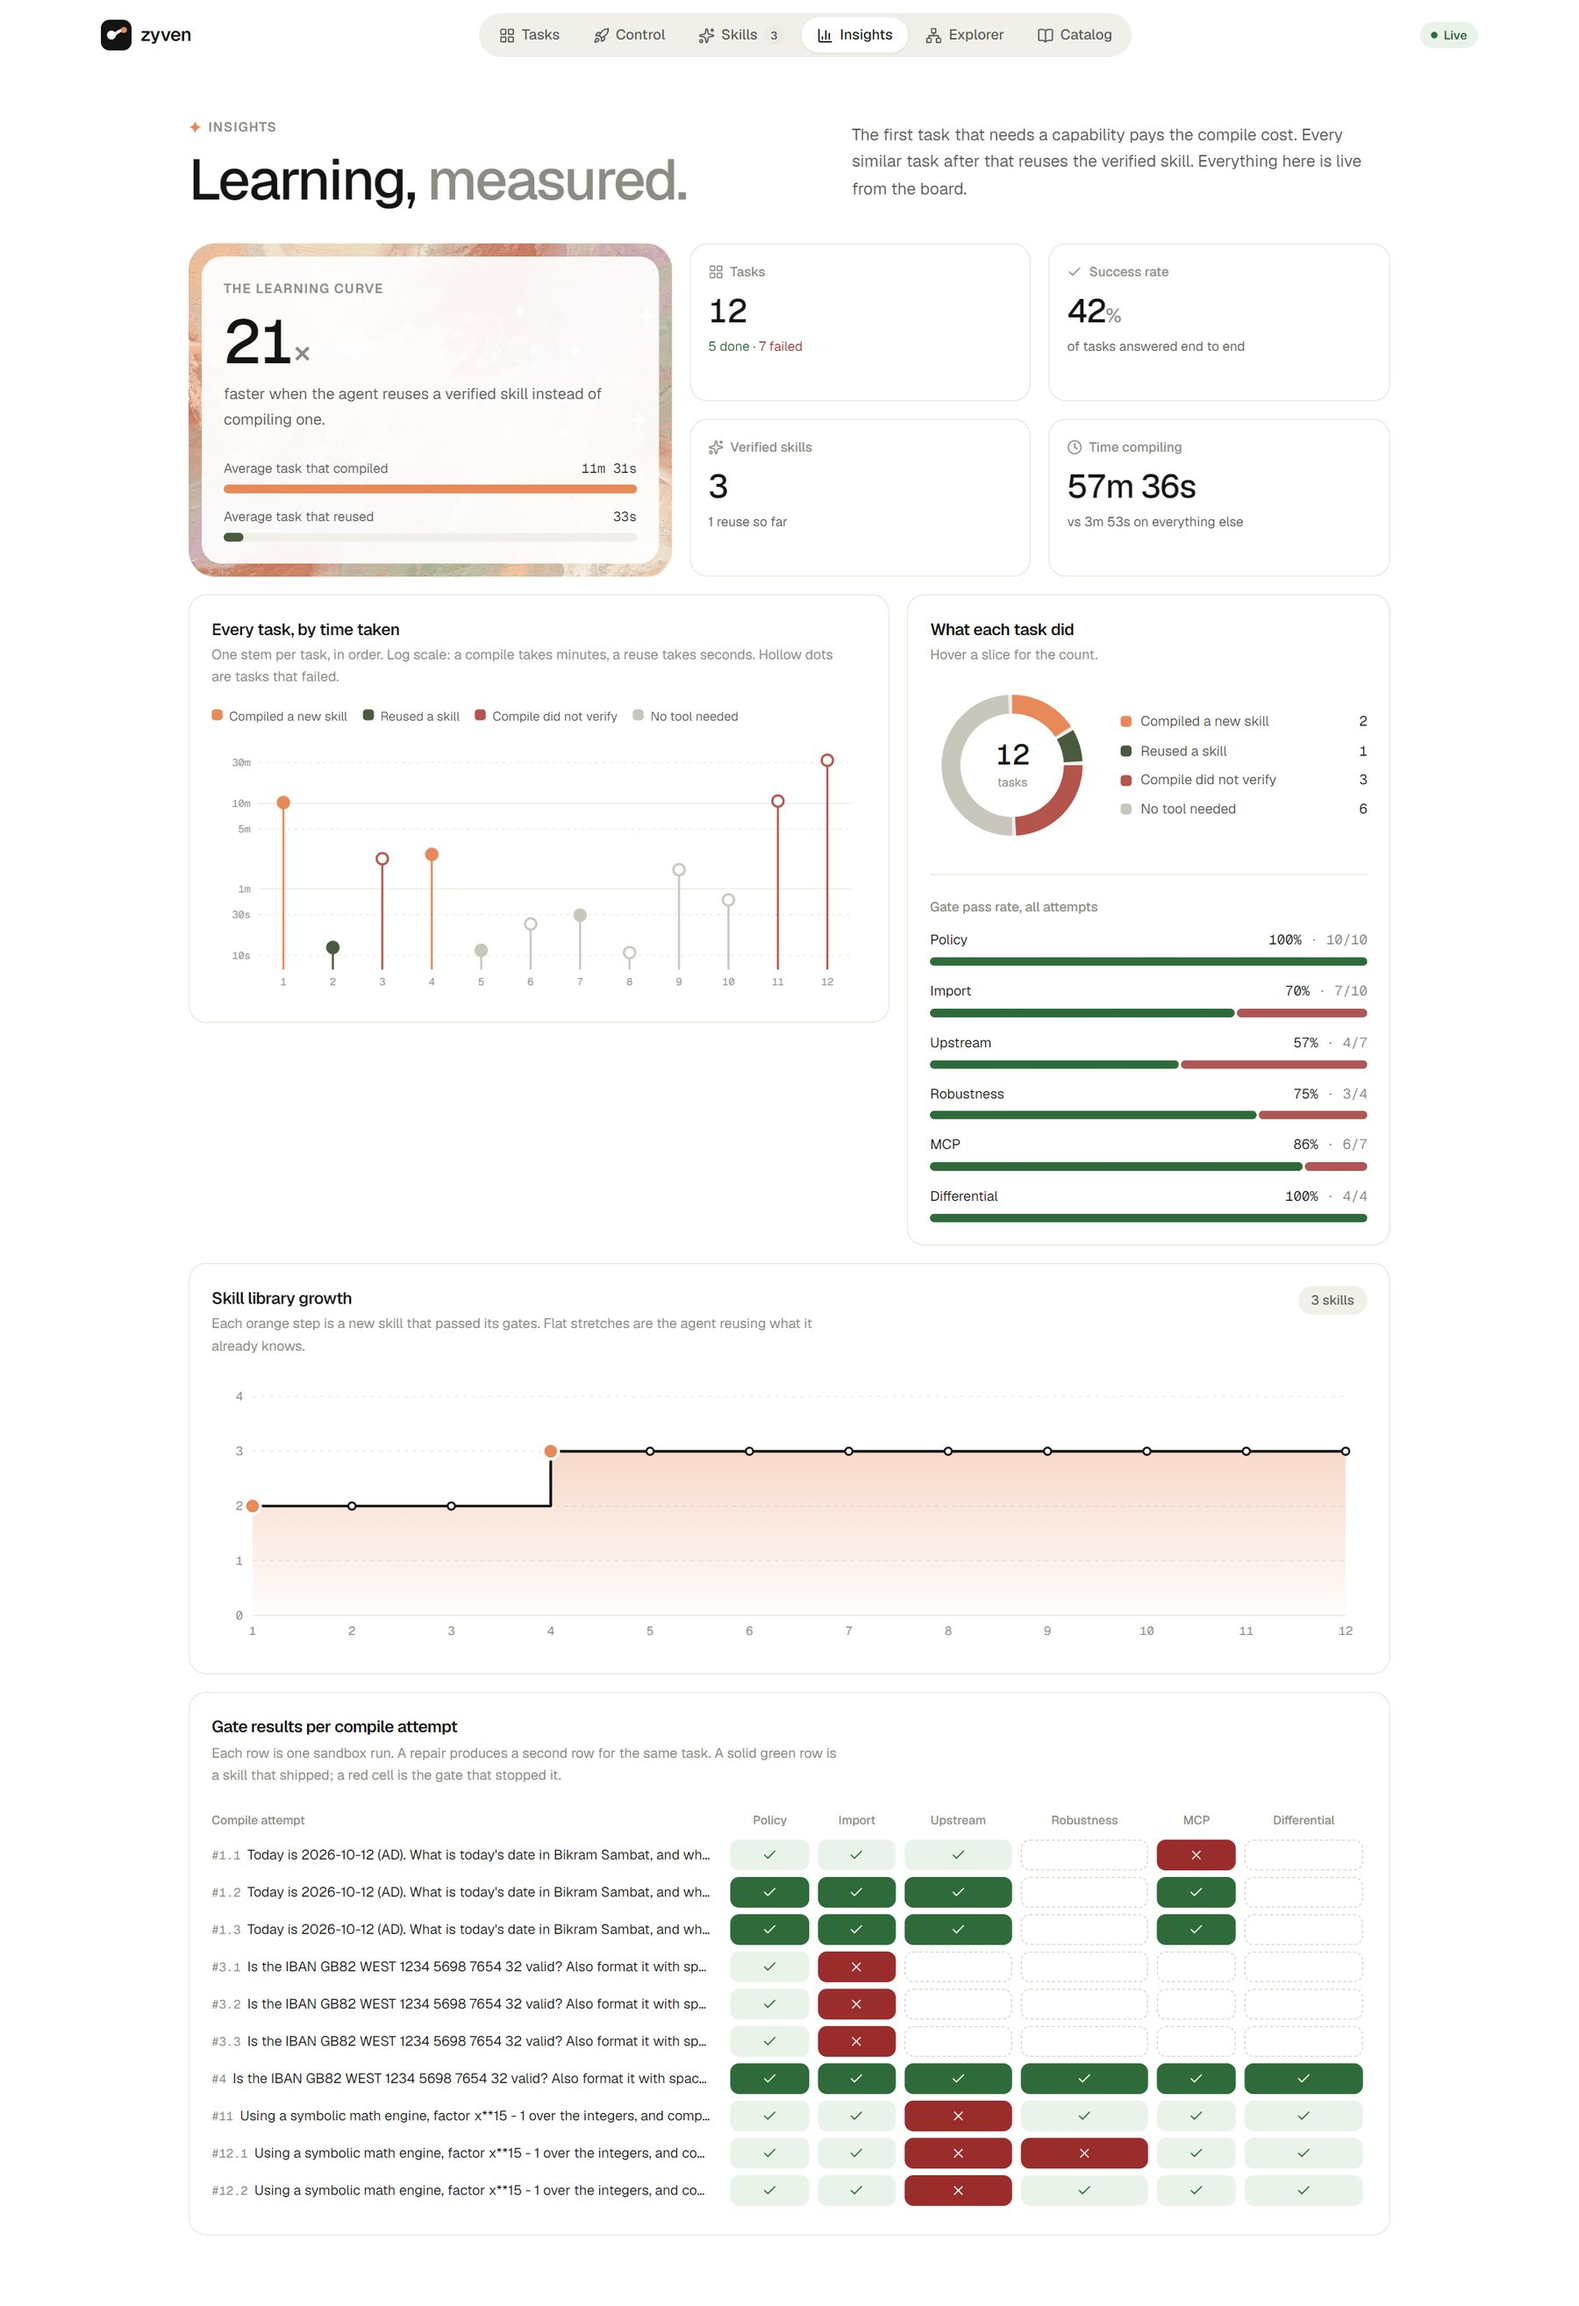
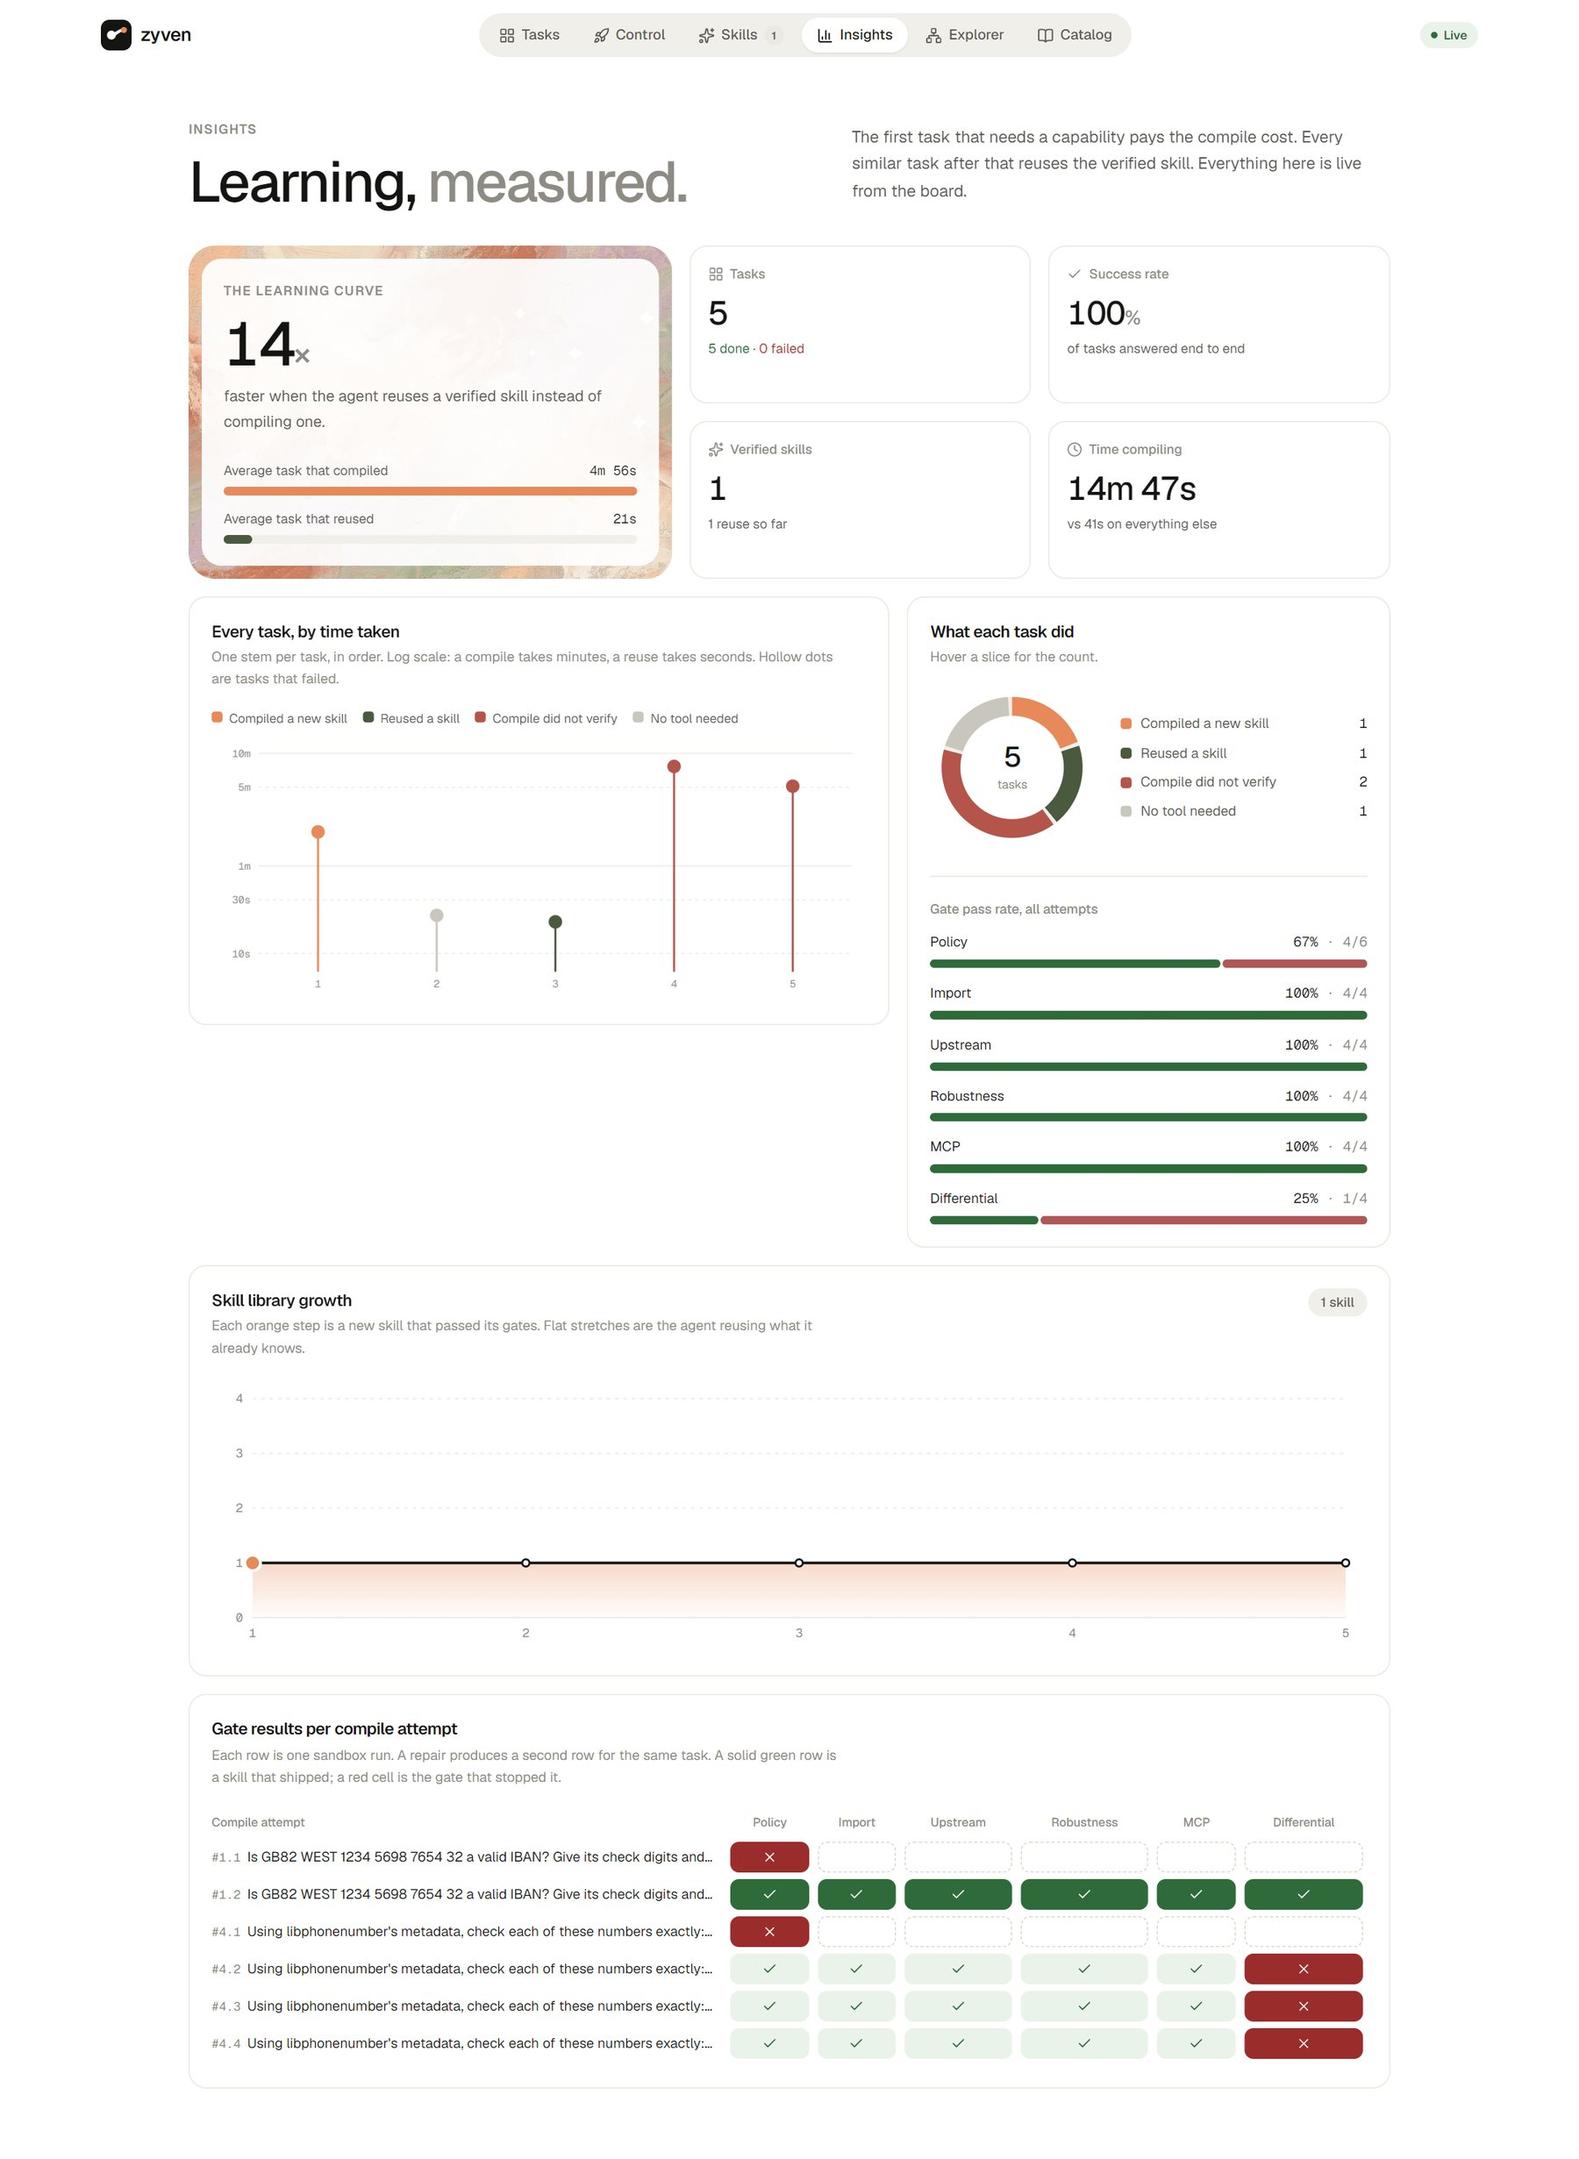
Screenshots from a clean open-model board; Markdown tables; graph labels
The README screenshots are retaken from a board where every model call was
gemma-4-26b-a4b-it: an IBAN skill compiled from python-stdnum and reused,
a phone-number compile stopped by the differential gate, and the sympy
module graph. The earlier set showed skills compiled with a proprietary
development model.

Answers now render Markdown tables. The module graph labels only the
largest modules, or the focused module's neighbours, so large repos stay
readable.

diff --git a/web/src/components/Markdown.tsx b/web/src/components/Markdown.tsx
@@ -40,7 +40,11 @@ type Block =
   | { k: "hr" }
   | { k: "code"; text: string }
   | { k: "math"; text: string }
-  | { k: "list"; ordered: boolean; items: string[] };
+  | { k: "list"; ordered: boolean; items: string[] }
+  | { k: "table"; head: string[]; align: ("left" | "center" | "right")[]; rows: string[][] };
+
+const cells = (line: string) => line.trim().replace(/^\|/, "").replace(/\|$/, "").split("|").map((c) => c.trim());
+const isRule = (line: string) => /^\s*\|?\s*:?-{3,}:?\s*(\|\s*:?-{3,}:?\s*)*\|?\s*$/.test(line);
 
 const LIST = /^(\s*)([-*+]|\d+[.)])\s+(.*)$/;
 
@@ -71,6 +75,16 @@ function parse(src: string): Block[] {
         body += "\n" + t;
       }
       out.push({ k: "math", text: body });
+      continue;
+    }
+    if (trimmed.startsWith("|") && i + 1 < lines.length && isRule(lines[i + 1])) {
+      flush();
+      const head = cells(trimmed);
+      const align = cells(lines[i + 1]).map((c) => (c.startsWith(":") && c.endsWith(":") ? "center" : c.endsWith(":") ? "right" : "left") as "left" | "center" | "right");
+      const rows: string[][] = [];
+      i++;
+      while (i + 1 < lines.length && lines[i + 1].trim().startsWith("|")) rows.push(cells(lines[++i]));
+      out.push({ k: "table", head, align, rows });
       continue;
     }
     const h = /^(#{1,4})\s+(.*)$/.exec(trimmed);
@@ -112,6 +126,21 @@ function Blocks({ blocks }: { blocks: Block[] }) {
             return <pre key={i} className="my-2 overflow-x-auto rounded-xl bg-ink px-3.5 py-2.5 font-mono text-[12px] leading-relaxed text-white/90">{b.text}</pre>;
           case "math":
             return <TeX key={i} src={b.text} display />;
+          case "table":
+            return (
+              <div key={i} className="my-2 overflow-x-auto rounded-xl border border-line bg-white/70">
+                <table className="w-full text-left text-[12.5px]">
+                  <thead className="bg-panel text-[11.5px] text-muted">
+                    <tr>{b.head.map((h, j) => <th key={j} className="px-3 py-2 font-semibold" style={{ textAlign: b.align[j] }}>{inline(h)}</th>)}</tr>
+                  </thead>
+                  <tbody className="divide-y divide-line">
+                    {b.rows.map((r, j) => (
+                      <tr key={j}>{r.map((c, k) => <td key={k} className="px-3 py-2 align-top" style={{ textAlign: b.align[k] }}>{inline(c)}</td>)}</tr>
+                    ))}
+                  </tbody>
+                </table>
+              </div>
+            );
           case "list": {
             const L = b.ordered ? "ol" : "ul";
             return (

diff --git a/web/src/components/ForceGraph.tsx b/web/src/components/ForceGraph.tsx
@@ -213,7 +213,8 @@ export function ForceGraph({ nodes, edges }: { nodes: GraphNode[]; edges: GraphE
   const s = sel !== null ? P[sel] : null;
   const out = sel !== null ? E.filter((e) => e.s === sel).map((e) => e.t) : [];
   const inc = sel !== null ? E.filter((e) => e.t === sel).map((e) => e.s) : [];
-  const showAll = view.k > 1.7;
+  const showAll = view.k > 2.4;
+  const bigOnes = new Set(P.map((p, i) => [p.r, i] as const).sort((a, b) => b[0] - a[0]).slice(0, 12).map(([, i]) => i));
 
   return (
     <div className="relative overflow-hidden rounded-2xl border border-line bg-panel">
@@ -250,7 +251,8 @@ export function ForceGraph({ nodes, edges }: { nodes: GraphNode[]; edges: GraphE
           {P.map((p, i) => {
             const dim = (near && !near.has(i)) || (q && !matches.includes(i));
             const isSel = sel === i, isHover = hover === i, hit = q && matches.includes(i);
-            const label = showAll || p.capability || p.r > 14 || near?.has(i) || hit;
+            // Unfocused: label only the biggest modules; focused: only the focused module's neighbourhood.
+            const label = near ? near.has(i) || hit : showAll || bigOnes.has(i) || hit;
             return (
               <g key={p.id} data-node={i} opacity={dim ? 0.2 : 1} className="cursor-pointer transition-opacity duration-200"
                 onPointerEnter={() => setHover(i)} onPointerLeave={() => setHover((h) => (h === i ? null : h))}>

diff --git a/README.md b/README.md
@@ -91,34 +91,37 @@ Without tools, the model tries to compute checksums and calendars by hand and us
 
 ## The app
 
-`zyven board` serves the landing page, the board and the APIs on one port. Everything below is the real app
-showing data from real runs, failures included.
+`zyven board` serves the landing page, the board and the APIs on one port. The screenshots below are the real app
+on a clean board (`zyven board --board-dir …`) where every model call was made by the open-weight
+`gemma-4-26b-a4b-it`.
 
 **Task board.** Give the agent a task. When it lacks a capability it proposes a pinned repository, waits for your
-approval, compiles in the sandbox and finishes the task with the new tool. The rail shows what the agent is doing
-and what it already knows.
+approval, compiles in the sandbox and finishes the task with the new tool. Below, the first IBAN task compiled a skill
+from python-stdnum (366 modules) in 2 minutes. The second reused it and finished in 19 seconds. A UK phone number the
+model could answer on its own needed no tool at all.
 
 ![Task board](docs/screenshots/board.jpg)
 
-**Answers** render as Markdown with real maths. This one came from a symbolic-maths task.
+**A finished task.** The answer, the tool calls that produced it, the skill learned from the repository, and the six
+sandbox gates it passed. Answers render as Markdown, with maths when there is any.
 
-<p align="center"><img src="docs/screenshots/answer.jpg" alt="An answer with rendered maths" width="640"></p>
+<p align="center"><img src="docs/screenshots/answer.jpg" alt="A finished task with its answer, tool calls and gates" width="640"></p>
 
 **Insights.** The learning curve, measured: how much faster a reuse is than a compile, every task on a log-scale
-timeline, skill-library growth, and a grid of which gate stopped each compile attempt.
+timeline, skill-library growth, and a grid of which gate stopped each compile attempt. In this run, a phone-number skill
+compiled from python-phonenumbers passed the library's own 158 tests, but the differential gate caught one tool
+disagreeing with the library on a UK mobile number. Two repairs didn't fix it, so the skill was not loaded.
 
 ![Insights dashboard](docs/screenshots/insights.jpg)
 
-**Repository explorer.** What could a repository become? It shows the funnel from every symbol to MCP-able tool
-candidates, and an interactive module graph: zoom, pan, drag, search, and click a module to see what it imports and
-what imports it.
+**Repository explorer.** What could a repository become? Here it is sympy, 425,281 lines in 882 modules, analysed
+statically in about 100 seconds. It shows the funnel from every symbol to MCP-able tool candidates, and an
+interactive module graph: zoom, pan, drag, search, and click a module to see what it imports and what imports it.
 
 ![Module graph with a module selected](docs/screenshots/graph.jpg)
 
-**Skill library.** Each verified skill with its tools, call health, provenance, and exactly which of the six gates
-it passed. The two older calendar skills were compiled before the robustness and differential gates existed.
-
-![Skill library](docs/screenshots/skills.jpg)
+**Skill library.** Every verified skill is kept with its tools, call health, provenance (repository and pinned
+commit) and exactly which of the six gates it passed, so the next task can reuse it.
 
 ## How it works
 
